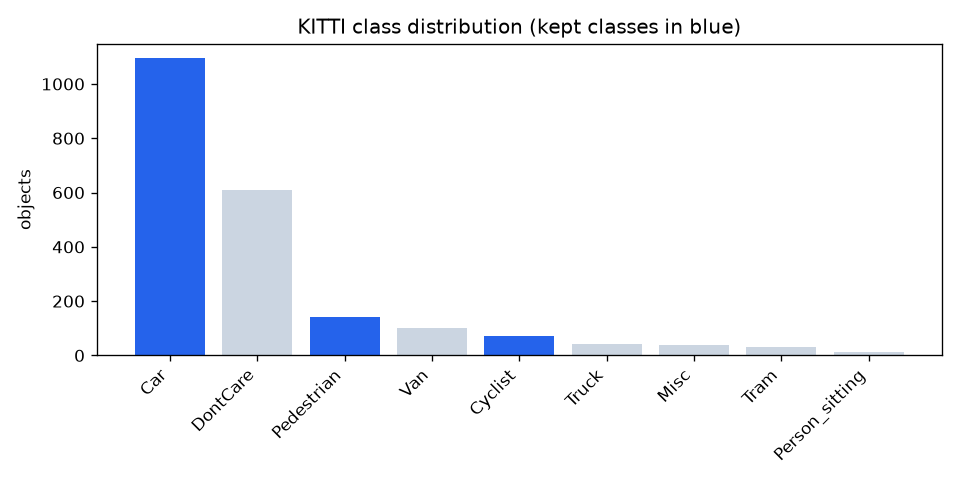
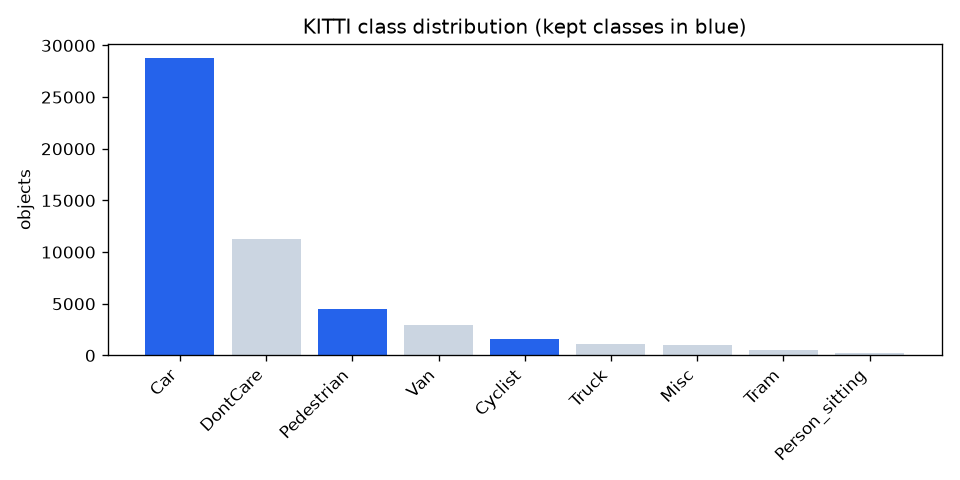
docs: regenerate EDA on the full 7481-frame dataset

diff --git a/reports/eda.md b/reports/eda.md
@@ -1,21 +1,21 @@
 # KITTI subset: exploratory analysis
 
-- Frames analysed: **300**
-- Objects total: **2142** (kept for training: **1306**)
-- Mean kept objects per frame: **4.35**
-- Boxes under 25 px tall: **168** (**13%** of kept objects)
+- Frames analysed: **7481**
+- Objects total: **51865** (kept for training: **34856**)
+- Mean kept objects per frame: **4.66**
+- Boxes under 25 px tall: **4287** (**12%** of kept objects)
 
 ## Per-class
 
 | class | count | easy | moderate | hard | ignored | median height px | aspect w/h |
 |---|---|---|---|---|---|---|---|
-| car | 1094 | 235 | 387 | 210 | 262 | 45.8 | 1.71 |
-| pedestrian | 141 | 84 | 32 | 17 | 8 | 76.4 | 0.4 |
-| cyclist | 71 | 34 | 15 | 4 | 18 | 71.7 | 0.7 |
+| car | 28742 | 5971 | 9739 | 6006 | 7026 | 47.0 | 1.72 |
+| pedestrian | 4487 | 2310 | 1259 | 707 | 211 | 87.9 | 0.4 |
+| cyclist | 1627 | 654 | 444 | 96 | 433 | 60.1 | 0.69 |
 
 ## What this means for the model
 
-- **Severe class imbalance:** Car:Pedestrian:Cyclist is roughly 1094:141:71. Cyclist is the scarce class and the one to watch. Its AP should be reported on its own rather than buried in a mean.
-- **Small, distant objects cause most of the difficulty, unevenly by class:** 13% of kept objects fall below KITTI's 25 px floor. It hits **cyclist** hardest (25% ignored) and **car** next (24%); the remaining class sits mostly close and large. Keeping input resolution high matters most for those distant cases.
-- **Aspect ratios separate the classes cleanly** (car w/h ≈ 1.71, pedestrian ≈ 0.4), a sanity check that the boxes are well-formed and the three classes are visually distinct.
+- **Severe class imbalance:** Car:Pedestrian:Cyclist is roughly 28742:4487:1627. Cyclist is the scarce class and the one to watch. Its AP should be reported on its own rather than buried in a mean.
+- **Small, distant objects cause most of the difficulty, unevenly by class:** 12% of kept objects fall below KITTI's 25 px floor. It hits **cyclist** hardest (27% ignored) and **car** next (24%); the remaining class sits mostly close and large. Keeping input resolution high matters most for those distant cases.
+- **Aspect ratios separate the classes cleanly** (car w/h ≈ 1.72, pedestrian ≈ 0.4), a sanity check that the boxes are well-formed and the three classes are visually distinct.
 - **Difficulty tiers are uneven per class**, so a single mAP number would hide where the model actually fails. We report Easy/Moderate/Hard separately, as KITTI does.
